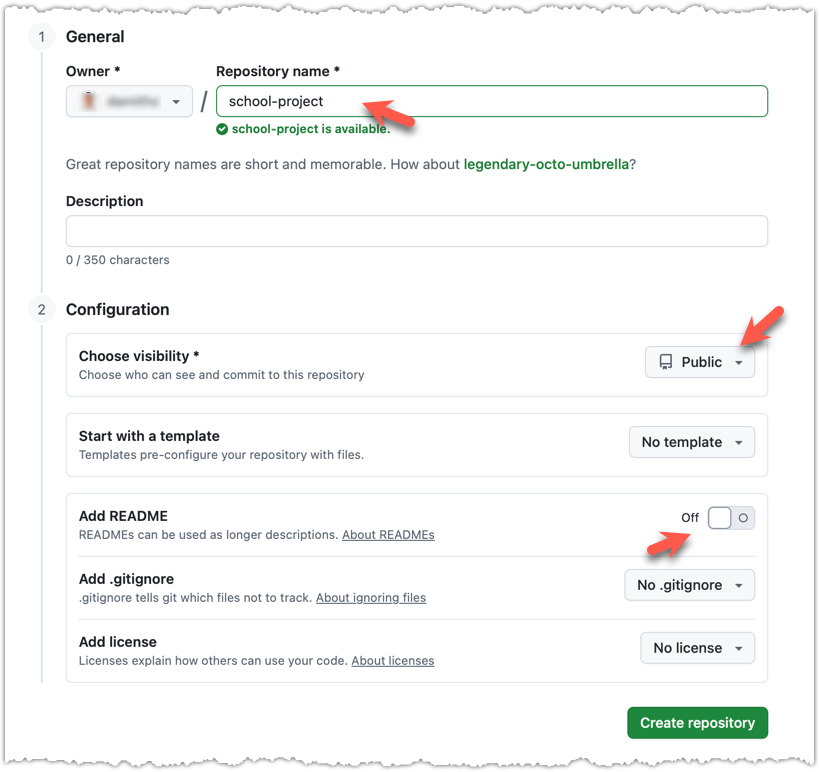
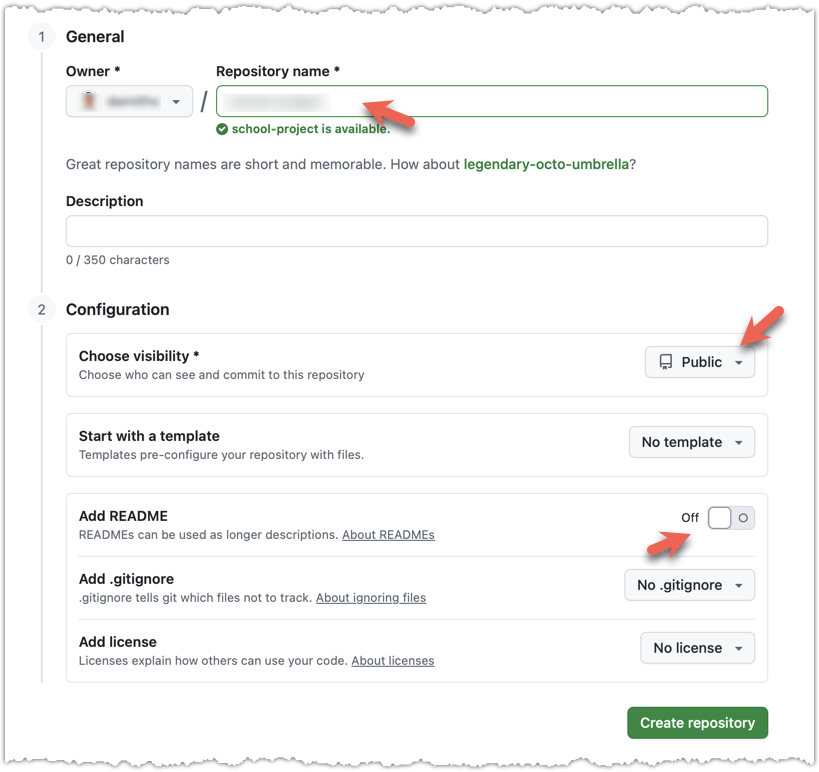
T2: Tweak text

Changed region(s): [[0.7631, 0.9016, 0.9463, 0.9637], [0.2747, 0.1244, 0.3968, 0.1554]]

diff --git a/lessons/setRemote/text.md b/lessons/setRemote/text.md
@@ -31,25 +31,47 @@ The second step of backing up a local repo on GitHub: **link the _local_ repo wi
 
 {% call show_hands_on_practical('Add a remote to a repo')  %}
 
-Add the empty remote repo you created on GitHub as a remote of a local repo you have.
+
+{{ hp_number(hop_preparation) }} **Use a local repo with a few commits** for this hands-on practical. Given below are commands you can use to create a repo named `sports`.
+
+```bash
+md sports
+cd sports
+git init
+
+echo -e "Arnold Palmer\nTiger Woods" >> golf.txt
+git stage golf.txt
+git commit -m "Add golf.txt"
+
+echo -e "Pete Sampras\nRoger Federer\nSerena Williams" >> tennis.txt
+git stage tennis.txt
+git commit -m "Add tennis.txt"
+
+echo -e "Pele\nMaradona" >> football.txt
+git stage football.txt
+git commit -m "Add football.txt"
+```
+
+{{hp_number(hop_target) }} **Link the `sports` local repo with the `gm-sports` remote repo** you created earlier.
+
 
 {% set cli %} <!-- ------ start: Git Tabs --------------->
-{{ hp_number ('1') }} **In a terminal, navigate to the folder containing the local repo** `things` you created earlier.
+{{ hp_number ('1') }} **In a terminal, navigate to the local repo** `sports` you created earlier.
 
 {{ hp_number ('2') }} **List the current list of remotes** using the `git remote -v` command, for a sanity check. No output is expected if there are no remotes yet.
 
 {{ hp_number ('3') }} **Add a new remote repo** using the `git remote add <remote-name> <remote-url>` command.<br>
 
 Format of the `<remote-url>`:
-```bash{highlight-lines="1['<owner>'],1['<repo>'],2['<owner>'],2['<repo>']"}
-https://github.com/<owner>/<repo>.git  # using HTTPS
-git@github.com:<owner>/<repo>.git  # using SSH
+```bash{highlight-lines="1['<owner>'],1['<remote-repo>'],2['<owner>'],2['<remote-repo>']"}
+https://github.com/<owner>/<remote-repo>.git  # using HTTPS
+git@github.com:<owner>/<remote-repo>.git  # using SSH
 ```
 
 The full command:
-```bash{highlight-lines="1['JohnDoe'],1['things'],2['JohnDoe'],2['things']"}
-git remote add origin https://github.com/JohnDoe/things.git  # using HTTPS
-git remote add origin git@github.com:JohnDoe/things.git  # using SSH
+```bash{highlight-lines="1['JohnDoe'],1['gm-sports'],2['JohnDoe'],2['gm-sports']"}
+git remote add origin https://github.com/JohnDoe/gm-sports.git  # using HTTPS
+git remote add origin git@github.com:JohnDoe/gm-sports.git  # using SSH
 ```
 
 {{ hp_number ('4') }} **List the remotes again to verify** the new remote was added.
@@ -59,8 +81,8 @@ git remote -v
 ```
 {% call show_output() %}
 ```{.no-line-numbers  highlight-lines="1['origin'],1['fetch'],2['origin'],2['push']"}
-origin  https://github.com/johndoe/things.git (fetch)
-origin  https://github.com/johndoe/things.git (push)
+origin  https://github.com/johndoe/gm-sports.git (fetch)
+origin  https://github.com/johndoe/gm-sports.git (push)
 ```
 {% endcall %}
 
@@ -99,7 +121,7 @@ origin  https://github.com/johndoe/things.git (push)
 {% endset %}
 {{ show_git_tabs_from_text(cli, sourcetree) }}
 <!-- ------ end: Git Tabs -------------------------------->
-{{ hp_number('5') }} **Add another _remote_**, to verify that a repo can have multiple remotes. You can use any name (e.g., `backup` and any URL for this).
+{{ hp_number('5') }} **Add another _remote_**, to verify that a repo can have multiple remotes. You can use any name (e.g., `backup` and any made-up `<owner>/<remote-repo>` for this).
 {% endcall %}
 
 <box type="tip" seamless class="non-printable">

diff --git a/lessons/push/text.md b/lessons/push/text.md
@@ -38,7 +38,9 @@ Explanation: When you create `C4`, the current branch `master` moves to `C4`, an
 
 {% call show_hands_on_practical('Pushing a local repo to an empty remote repo')  %}
 
-{{ hp_number(hop_preparation) }} Use a local repo that is connected to an empty remote repo e.g., the `things` repo from previous hands-on practicals:
+{{ hp_number(hop_preparation) }} **Use the `sports`** repo that is connected to the `gm-sports` remote repo you created earlier.
+
+{{ hp_number(hop_target) }} **Replicate (i.e., push) the revision history in the local `sports` repo in the remote `gm-sports` repo.**
 
 {{ hp_number("1") }} **Push the `master` branch** to the remote. **Also instruct Git to track this branch pair**.
 
@@ -53,17 +55,19 @@ Explanation: When you create `C4`, the current branch `master` moves to `C4`, an
 
 {% call show_hands_on_practical('Pushing to send further updates to a repo')  %}
 
-{{ hp_number(hop_target) }} Add a commit to the same local repo, and push it to the remote repo.
+{{ hp_number(hop_preparation) }} **Use the `sports`** repo and the `gm-sports` remote repo from the previous hands-on practical.
+
+{{ hp_number(hop_target) }} **Add a commit to the same local repo, and push it to the remote repo.**
 
 {{ hp_number ('1') }} **Commit** some changes in your local repo. Example:
 
 ```bash
-echo "Elderberries" >> fruits.txt
-git commit -am "Update fruits list"
+echo -e "Muhammad Ali\nMike Tyson" >> boxing.txt
+git stage boxing.txt
+git commit -m "Add boxing.txt"
 ```
 
 {% set cli %} <!-- ------ start: Git Tabs --------------->
-Use the `git commit` command to create commits, as you did before.
 
 Optionally, you can run the `git status` command, which should confirm that your local branch is 'ahead' by one commit (i.e., the local branch has commits that are not present in the corresponding branch in the remote repo).
 
@@ -83,10 +87,10 @@ nothing to commit, working tree clean
 You can also use the `git log --oneline --graph` command to see where the branch refs are. Note how the remote-tracking branch `origin/master` is one commit behind the local `master`.
 
 ```bash {highlight-lines="1['HEAD']@pink,1['master']@#e6fff2,2['origin/master']@#e6fff2"}
-e60deae (HEAD -> master) Update fruits list
-f761ea6 (origin/master) Add colours.txt, shapes.txt
-2bedace Add figs to fruits.txt
-d5f91de Add fruits.txt
+* 2ac116a (HEAD -> master) Add boxing.txt
+* 3f1240c (origin/master) Add football.txt
+* 5f05612 Add tennis.txt
+* 2dfe92d Add golf.txt
 ```
 {% endset %}
 {% set sourcetree %}

diff --git a/lessons/createRemoteRepo/text.md b/lessons/createRemoteRepo/text.md
@@ -19,7 +19,7 @@ The first step of backing up a local repo on GitHub: **create an empty repositor
 {{ hp_number ('1') }} **Login to your GitHub account and choose to create a new repo.** <br>
    <pic eager src="images/createNewRemoteRepo.png" width="250" />
 
-{{ hp_number ('2') }} **In the next screen, provide a name for your repo**. Refer the screenshot below on some guidance on how to provide the required information.<br>
+{{ hp_number ('2') }} **In the next screen, provide `gm-sports` as the name for your repo**. Refer the screenshot below on some guidance on how to provide the required information.<br>
    <pic eager src="images/fillNewRepoInfo.png" width="650" /><br>
    **Click {{ button_green("Create repository") }} button** to create the new repository.
 
@@ -29,7 +29,7 @@ If you enable any of the three `Add _____` options shown above, GitHub will not 
 </box>
 
 {{ hp_number ('3') }} **Note the URL of the repo.** It will be of the form<br> `https://github.com/{your_user_name}/{repo_name}.git`.<br>
-   e.g., `https://github.com/johndoe/foobar.git` (note the `.git` at the end)<br>
+   e.g., `https://github.com/johndoe/gm-sports.git` (note the `.git` at the end)<br>
    <pic eager src="images/newRepoUrl.png" width="600" />
 {% endcall %}
 

diff --git a/lessons/ignore/text.md b/lessons/ignore/text.md
@@ -82,16 +82,25 @@ node_modules/
 ```
 {% endcall %}
 
-{% call show_hands_on_practical('Adding a file to the ignore-list')  %}
+{% call show_hands_on_practical('Adding files to the ignore-list')  %}
 
-{{ hp_number ('1') }} **Add a file into your repo's working folder that you presumably do not want to revision-control** e.g., a file named `temp.txt`. Observe how Git has detected the new file.<br>
-Add a few other files with `.tmp` extension.
+{{ hp_number(hop_preparation) }} **Create a `temp.txt` file and a few `.log` files in a repo**. These are presumably files we do not want to include in our revision history. For example, as follows:
 
-{{ hp_number ('2') }} **Configure Git to ignore those files:**
+```bash
+echo "Rubbish" > temp.txt
+echo "log data" > main.log
+mkdir logs
+cd logs
+echo "more log data" > internal.log
+```
+
+{{ hp_number(hop_target) }} **Get Git to ignore the files** we created above.
+
+{{ hp_number ('1') }} **Configure Git to ignore those files:**
 
 {{ show_git_tabs('-ignore-file-fragment') }}
 
-{{ hp_number ('3') }} **Optionally, stage and commit the `.gitignore` file.**
+{{ hp_number ('2') }} **Optionally, stage and commit the `.gitignore` file.**
 
 {% endcall %} <!-- end HOP -->
 

diff --git a/lessons/ignore/cli-ignore-file-fragment.md b/lessons/ignore/cli-ignore-file-fragment.md
@@ -12,13 +12,13 @@ temp.txt
 {% endcall %} <!-- show_output -->
 
 
-Observe how `temp.txt` is no longer detected as 'untracked' by running the `git status` command (but now it will detect the `.gitignore` file as 'untracked'.
+Observe how `temp.txt` is no longer detected as 'untracked' by running the `git status` command, but now it will detect the `.gitignore` file as 'untracked'.
 
 Update the `.gitignore` file as follows:
 
 ```{heading=".gitignore" highlight-lines="2"}
 temp.txt
-*.tmp
+*.log
 ```
 
-Observe how `.tmp` files are no longer detected as 'untracked' by running the `git status` command.
+Observe how `.log` files are no longer detected as 'untracked' by running the `git status` command.

diff --git a/lessons/push/cli-subsequent-push-fragment.md b/lessons/push/cli-subsequent-push-fragment.md
@@ -11,8 +11,8 @@ To push the newer commit(s) in the current branch `master` to the remote `origin
 After pushing, the revision graph should look something like the following (note how both local and remote-tracking branch refs are pointing to the same commit again).
 
 ```bash {highlight-lines="1['HEAD']@pink,1['master']@#e6fff2,1['origin/master']@#e6fff2"}
-e60deae (HEAD -> master, origin/master) Update fruits list
-f761ea6 Add colours.txt, shapes.txt
-2bedace Add figs to fruits.txt
-d5f91de Add fruits.txt
+* 2ac116a (HEAD -> master, origin/master) Add boxing.txt
+* 3f1240c (origin/master) Add football.txt
+* 5f05612 Add tennis.txt
+* 2dfe92d Add golf.txt
 ```

diff --git a/lessons/push/cli-after-pushing-to-empty-remote-fragment.md b/lessons/push/cli-after-pushing-to-empty-remote-fragment.md
@@ -1,6 +1,6 @@
 Use the `git log --oneline --graph` to see the revision graph.
 ```bash {highlight-lines="1['origin/master']@#e6fff2"}
-* f761ea6 (HEAD -> master, origin/master) Add colours.txt, shapes.txt
-* 2bedace Add figs to fruits.txt
-* d5f91de Add fruits.txt
+* 3f1240c (HEAD -> master, origin/master) Add football.txt
+* 5f05612 Add tennis.txt
+* 2dfe92d Add golf.txt
 ```
